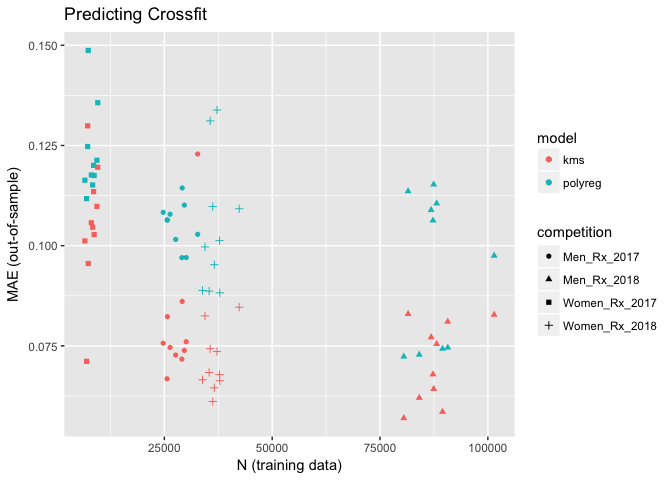
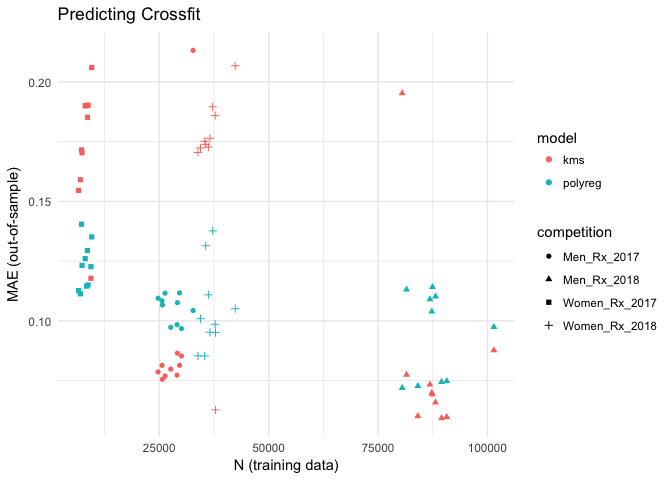
improved graphic

diff --git a/experiments/PM/fcrossfit_competitions_sims2.md b/experiments/PM/fcrossfit_competitions_sims2.md
@@ -5,7 +5,7 @@ Crossfit Data
 library(kerasformula)
 library(polyreg)
 library(ggplot2)
-seed <- 1234
+seed <- 54321
 pTraining <- 0.9
 ```
 
@@ -78,6 +78,8 @@ for(i in 1:4){
 
 MAE_results$openA <- gsub("percentile", " ", MAE_results$openA)
 MAE_results$openB <- gsub("percentile", " ", MAE_results$openB)
+
+write.csv(MAE_results, file=paste0("MAE_results_seed_", seed, ".csv"))
 ```
 
 The results
@@ -86,8 +88,9 @@ The results
 Out-of-sample mean absolute error (MAE) for `kms` vs. `xvalPoly` (for the latter, the lowest MAE for the models corresponding to the three polynomial degrees is selected).
 
 ``` r
-ggplot(MAE_results, aes(x = N, y  = MAE, color = model, pch=competition)) + geom_point() + 
-  labs(title="Predicting Crossfit", y="MAE (out-of-sample)", x="N (training data)")
+ggplot(MAE_results, aes(x = MAE, y  = paste0(openA, ", ", openB), color = model, pch=competition, size=N)) + geom_point() + 
+  labs(title="Predicting Crossfit Percentile", 
+       y="Competitions used as Features", x="Mean Absolute Error (out-of-sample)") + theme_minimal()
 ```
 
-![](fcrossfit_competitions_sims2_files/figure-markdown_github/unnamed-chunk-4-1.png)
+![](fcrossfit_competitions_sims2_files/figure-markdown_github/unnamed-chunk-5-1.png)
